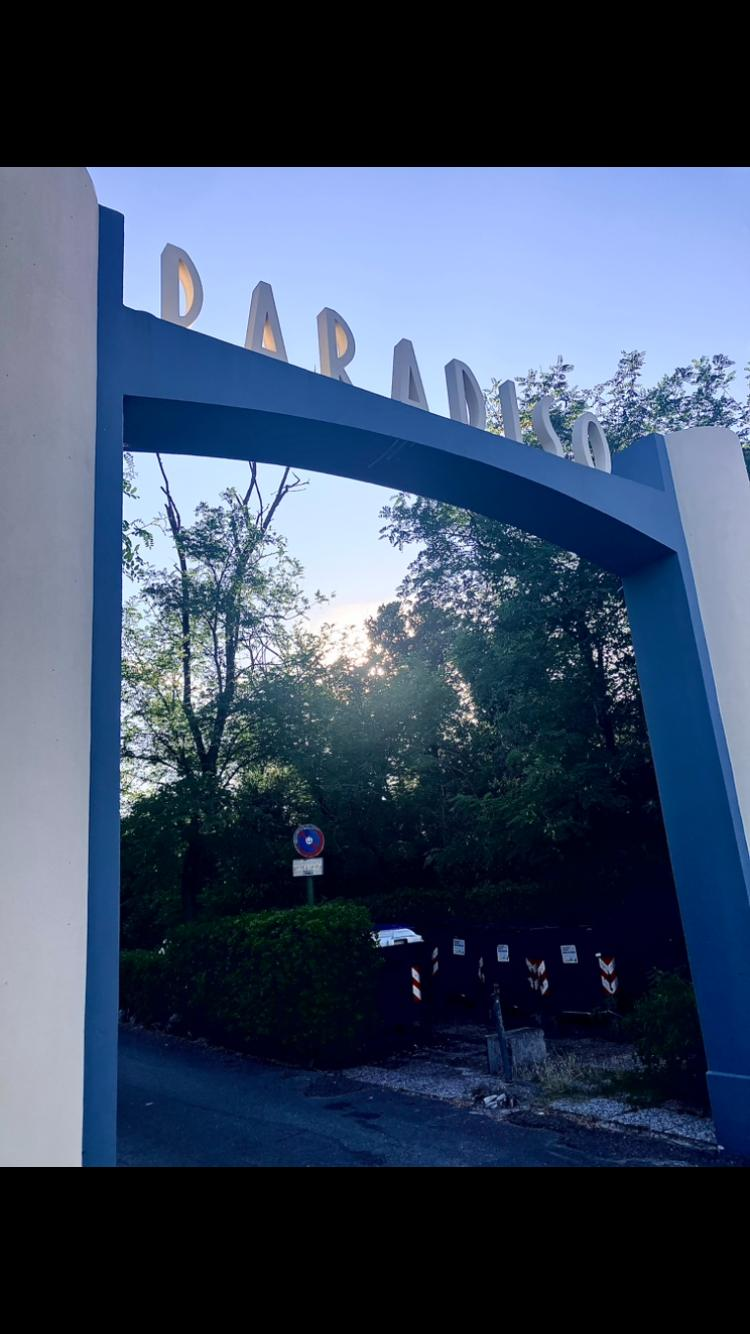
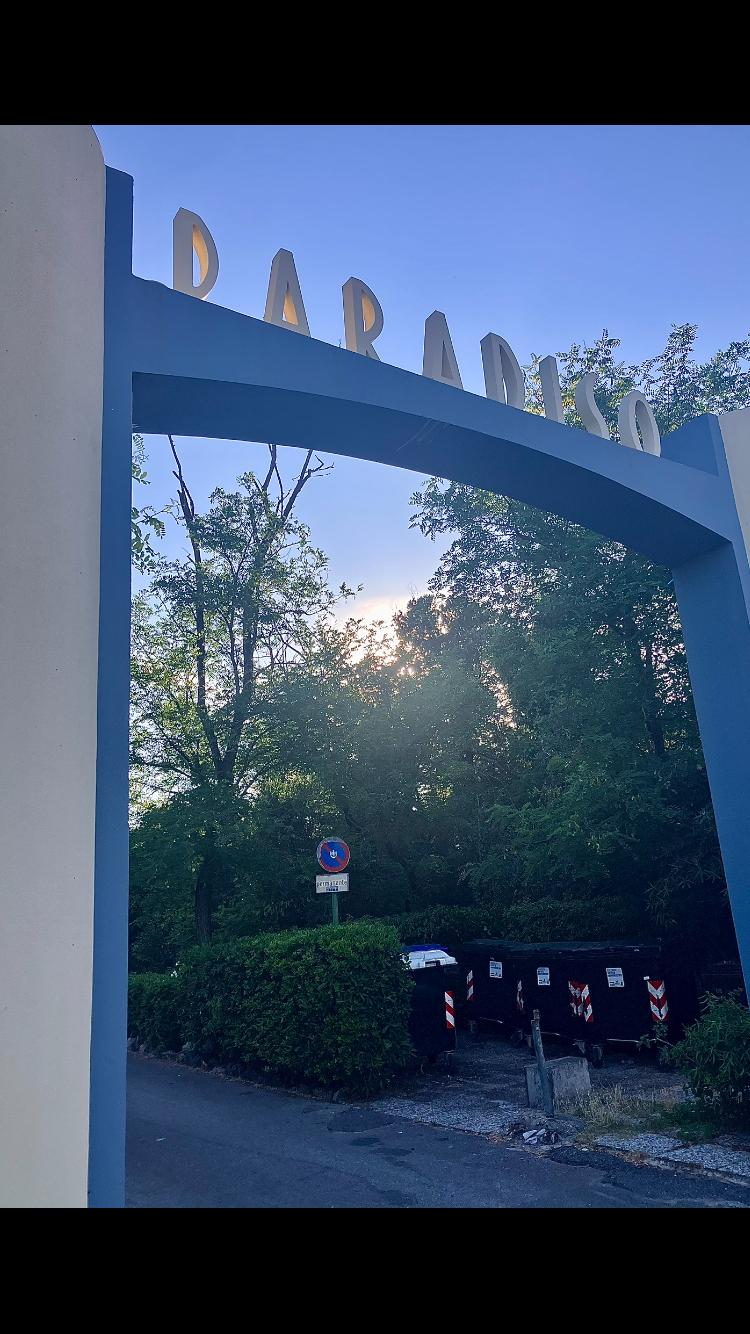
Hero Image Home2

diff --git a/src/pages/Home.js b/src/pages/Home.js
@@ -67,7 +67,7 @@ const Home = () => {
       {/* Hero Section */}
       <section className="home-hero">
         <div className="home-hero-bg">
-          <img src={require('../images/img-hero.png')} alt="Bagno Paradiso" className="home-hero-img" />
+          <img src={require('../images/img-hero.jpeg')} alt="Bagno Paradiso" className="home-hero-img" />
           <div className="home-hero-overlay"></div>
         </div>
         <div className="home-hero-content">